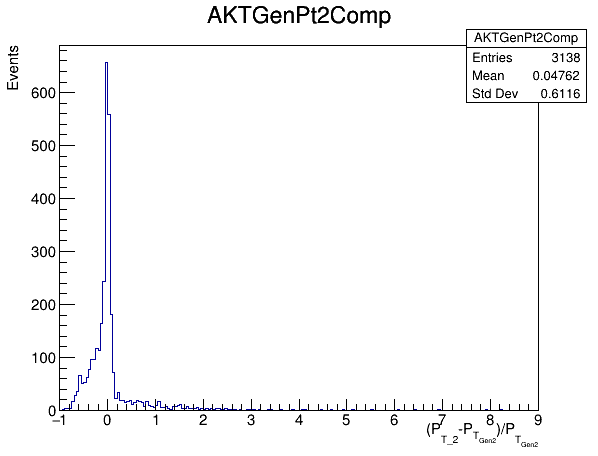
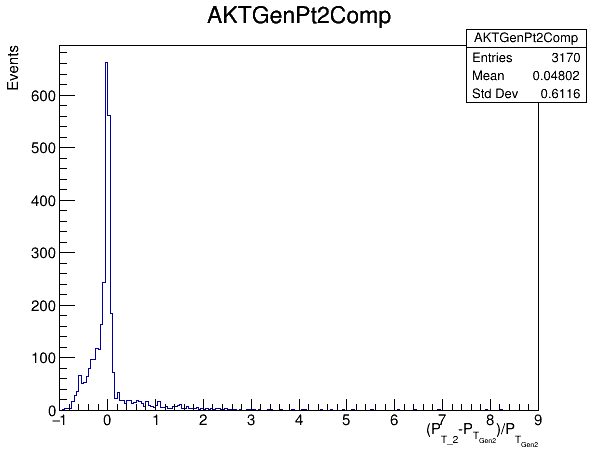
Update deltaR algo and resolution scatter plot

diff --git a/Delphes/src/PairingDiHiggs.C b/Delphes/src/PairingDiHiggs.C
@@ -22,6 +22,7 @@ R__LOAD_LIBRARY(libDelphes)
 #include <TCanvas.h>
 #include <TMath.h>
 #include <TLorentzVector.h>
+#include <TLatex.h>
 
 void PairingDiHiggs(const char *inputFile, const char *outputFile){
      gSystem->Load("libDelphes.so");
@@ -61,6 +62,16 @@ void PairingDiHiggs(const char *inputFile, const char *outputFile){
      TH1D *AKTGenPt3Comp = new TH1D("AKTGenPt3Comp", "AKTGenPt3Comp", 200 , -1, 9); 
      TH1D *AKTGenPt4Comp = new TH1D("AKTGenPt4Comp", "AKTGenPt4Comp", 200 , -1, 2); 
 
+     TH2D *jet1Reso_Pt = new TH2D("jet1Reso_Pt", "jet1Reso_Pt", 70, 0, 400, 70, -1, 4); 
+     TH2D *jet2Reso_Pt = new TH2D("jet2Reso_Pt", "jet2Reso_Pt", 70, 0, 400, 70, -1, 4); 
+     TH2D *jet3Reso_Pt = new TH2D("jet3Reso_Pt", "jet3Reso_Pt", 70, 0, 400, 70, -1, 4); 
+     TH2D *jet4Reso_Pt = new TH2D("jet4Reso_Pt", "jet4Reso_Pt", 70, 0, 400, 70, -1, 4); 
+
+     TH2D *jet1Reso_DeltaR = new TH2D("jet1Reso_DeltaR", "jet1Reso_DeltaR", 30, 0, 0.1, 30, -1, 4); 
+     TH2D *jet2Reso_DeltaR = new TH2D("jet2Reso_DeltaR", "jet2Reso_DeltaR", 30, 0, 0.1, 30, -1, 4); 
+     TH2D *jet3Reso_DeltaR = new TH2D("jet3Reso_DeltaR", "jet3Reso_DeltaR", 30, 0, 0.1, 30, -1, 4); 
+     TH2D *jet4Reso_DeltaR = new TH2D("jet4Reso_DeltaR", "jet4Reso_DeltaR", 30, 0, 0.1, 30, -1, 1.5); 
+
      Double_t AKTjet1eta1;
      Double_t AKTjet1phi1;
      Double_t AKTjet1pt1;
@@ -97,8 +108,6 @@ void PairingDiHiggs(const char *inputFile, const char *outputFile){
      Double_t Gen3mass;
      Double_t Gen4mass;
 
-
-
      Int_t pair1jet1entry;
      Int_t pair1jet2entry;
      Int_t pair2jet1entry;
@@ -125,6 +134,11 @@ void PairingDiHiggs(const char *inputFile, const char *outputFile){
      TLorentzVector GenJet2;
      TLorentzVector GenJet3;
      TLorentzVector GenJet4;
+     
+     Double_t jet1DeltaR;
+     Double_t jet2DeltaR;
+     Double_t jet3DeltaR;
+     Double_t jet4DeltaR;
 
      cout << "Running Pairing up Algo..." << endl;
 //run over event entries
@@ -167,8 +181,8 @@ void PairingDiHiggs(const char *inputFile, const char *outputFile){
          AKTjetpaircnt = 0;
 	 if (nAKTjet >= 4) {
              //Pairing up leading anti-KT jet pair
-	     for(Int_t akt1entry=0; akt1entry < nAKTjet; akt1entry++){
-	         for(Int_t akt2entry=akt1entry+1; akt2entry < nAKTjet; akt2entry++){
+	     for (Int_t akt1entry=0; akt1entry < nAKTjet; akt1entry++){
+	         for (Int_t akt2entry=akt1entry+1; akt2entry < nAKTjet; akt2entry++){
 
 		     AKTjet1eta1 = AKTjet_eta->GetValue(akt1entry);
          	     AKTjet1phi1 = AKTjet_phi->GetValue(akt1entry);
@@ -191,10 +205,10 @@ void PairingDiHiggs(const char *inputFile, const char *outputFile){
                      
 		     Int_t akt1entry2;
 		     Int_t akt2entry2;
-		     for(akt1entry2 = 0; akt1entry2 < nAKTjet; akt1entry2++){
-	                 if((akt1entry2 != akt1entry) and (akt1entry2 != akt2entry)){
-		             for(akt2entry2 = 0; akt2entry2 < nAKTjet; akt2entry2++){
-		                 if(((akt2entry2 != akt1entry) and (akt2entry2 != akt2entry)) and (akt2entry2 != akt1entry)){
+		     for (akt1entry2 = 0; akt1entry2 < nAKTjet; akt1entry2++){
+	                 if ((akt1entry2 != akt1entry) and (akt1entry2 != akt2entry)){
+		             for (akt2entry2 = 0; akt2entry2 < nAKTjet; akt2entry2++){
+		                 if (((akt2entry2 != akt1entry) and (akt2entry2 != akt2entry)) and (akt2entry2 != akt1entry)){
 			      
 			             AKTjet2eta1 = AKTjet_eta->GetValue(akt1entry2);
          	                     AKTjet2phi1 = AKTjet_phi->GetValue(akt1entry2);
@@ -267,19 +281,30 @@ void PairingDiHiggs(const char *inputFile, const char *outputFile){
              bool AKT2jet1flag = false;
 	     bool AKT2jet2flag = false;
 
-             Float_t jet1DeltaR = 100;
-             Float_t jet2DeltaR = 100;
+             jet1DeltaR = 100;
+             jet2DeltaR = 100;
+             jet3DeltaR = 100;
+             jet4DeltaR = 100;
+
+             Float_t jet1DeltaPhi;
+             Float_t jet2DeltaPhi;
+             Float_t jet3DeltaPhi;
+             Float_t jet4DeltaPhi;
 
 	     Int_t jet1entry;
 	     Int_t jet2entry;
 	     Int_t jet3entry;
 	     Int_t jet4entry;
 //Truth matching for anti-KT jets
-             for(Int_t gen1entry=0; gen1entry < nGenJet; gen1entry++){
+             for (Int_t gen1entry=0; gen1entry < nGenJet; gen1entry++){
   	         Gen1eta = GenJet_eta->GetValue(gen1entry);
 	         Gen1phi = GenJet_phi->GetValue(gen1entry);
-	         Float_t jet1DeltaRtmp = TMath::Sqrt(pow((AKTjet1eta1-Gen1eta),2)+pow((AKTjet1phi1-Gen1phi),2));
-	         if(jet1DeltaRtmp < jet1DeltaR){
+		 jet1DeltaPhi = std::abs(AKTjet1phi1-Gen1phi);                
+		 if (jet1DeltaPhi > TMath::Pi()) {
+		     jet1DeltaPhi -= 2 * TMath::Pi();
+		 } 
+	         Float_t jet1DeltaRtmp = TMath::Sqrt(pow((AKTjet1eta1-Gen1eta),2)+pow(jet1DeltaPhi,2));
+	         if (jet1DeltaRtmp < jet1DeltaR){
 	             jet1DeltaR = jet1DeltaRtmp;
 		     if (jet1DeltaR < 0.5){
 		         //if (abs(Gen1eta) < 2.25){
@@ -289,12 +314,16 @@ void PairingDiHiggs(const char *inputFile, const char *outputFile){
 		     }
 	         }  
              }
-             for(Int_t gen2entry=0; gen2entry < nGenJet; gen2entry++){
+             for (Int_t gen2entry=0; gen2entry < nGenJet; gen2entry++){
   	         Gen2eta = GenJet_eta->GetValue(gen2entry);
 	         Gen2phi = GenJet_phi->GetValue(gen2entry);
-	         Float_t jet2DeltaRtmp = TMath::Sqrt(pow((AKTjet1eta2-Gen2eta),2)+pow((AKTjet1phi2-Gen2phi),2));
+                 jet2DeltaPhi = std::abs(AKTjet1phi2-Gen2phi);                
+		 if (jet2DeltaPhi > TMath::Pi()) {
+		     jet2DeltaPhi -= 2 * TMath::Pi();
+		 } 
+	         Float_t jet2DeltaRtmp = TMath::Sqrt(pow((AKTjet1eta2-Gen2eta),2)+pow(jet2DeltaPhi,2));
 	         if (gen2entry != jet1entry){
-                     if(jet2DeltaRtmp < jet2DeltaR){
+                     if (jet2DeltaRtmp < jet2DeltaR){
 	                 jet2DeltaR = jet2DeltaRtmp;
                          if (jet2DeltaR < 0.5){
 		             //if (abs(Gen2eta) < 2.25){
@@ -305,16 +334,18 @@ void PairingDiHiggs(const char *inputFile, const char *outputFile){
 	             }
 	         }
              }
-             jet1DeltaR = 100;
-             jet2DeltaR = 100;
 
-	     for(Int_t gen3entry=0; gen3entry < nGenJet; gen3entry++){
+	     for (Int_t gen3entry=0; gen3entry < nGenJet; gen3entry++){
   	         Gen3eta = GenJet_eta->GetValue(gen3entry);
 	         Gen3phi = GenJet_phi->GetValue(gen3entry);
-	         Float_t jet1DeltaRtmp = TMath::Sqrt(pow((AKTjet2eta1-Gen3eta),2)+pow((AKTjet2phi1-Gen3phi),2));
-	         if(jet1DeltaRtmp < jet1DeltaR){
-	             jet1DeltaR = jet1DeltaRtmp;
-		     if (jet1DeltaR < 0.5){
+                 jet3DeltaPhi = std::abs(AKTjet2phi1-Gen3phi);                
+		 if (jet3DeltaPhi > TMath::Pi()) {
+		     jet3DeltaPhi -= 2 * TMath::Pi();
+		 } 
+	         Float_t jet1DeltaRtmp = TMath::Sqrt(pow((AKTjet2eta1-Gen3eta),2)+pow(jet3DeltaPhi,2));
+	         if (jet1DeltaRtmp < jet3DeltaR){
+	             jet3DeltaR = jet1DeltaRtmp;
+		     if (jet3DeltaR < 0.5){
 		         //if (abs(Gen1eta) < 2.25){
 		             AKT2jet1flag = true;
 		             jet3entry = gen3entry;
@@ -322,14 +353,18 @@ void PairingDiHiggs(const char *inputFile, const char *outputFile){
 		     }
 	         }  
              }
-             for(Int_t gen4entry=0; gen4entry < nGenJet; gen4entry++){
+             for (Int_t gen4entry=0; gen4entry < nGenJet; gen4entry++){
   	         Gen4eta = GenJet_eta->GetValue(gen4entry);
 	         Gen4phi = GenJet_phi->GetValue(gen4entry);
-	         Float_t jet2DeltaRtmp = TMath::Sqrt(pow((AKTjet2eta2-Gen4eta),2)+pow((AKTjet2phi2-Gen4phi),2));
+                 jet4DeltaPhi = std::abs(AKTjet2phi2-Gen4phi);                
+		 if (jet4DeltaPhi > TMath::Pi()) {
+		     jet4DeltaPhi -= 2 * TMath::Pi();
+		 } 
+	         Float_t jet2DeltaRtmp = TMath::Sqrt(pow((AKTjet2eta2-Gen4eta),2)+pow(jet4DeltaPhi,2));
 	         if (gen4entry != jet1entry){
-                     if(jet2DeltaRtmp < jet2DeltaR){
-	                 jet2DeltaR = jet2DeltaRtmp;
-                         if (jet2DeltaR < 0.5){
+                     if (jet2DeltaRtmp < jet4DeltaR){
+	                 jet4DeltaR = jet2DeltaRtmp;
+                         if (jet4DeltaR < 0.5){
 		             //if (abs(Gen2eta) < 2.25){
 		                 AKT2jet2flag = true;
 		                 jet4entry = gen4entry;
@@ -400,6 +435,23 @@ void PairingDiHiggs(const char *inputFile, const char *outputFile){
 		 AKTGenPt2Comp->Fill(AKTGenPt2diff);
 		 AKTGenPt3Comp->Fill(AKTGenPt3diff);
 		 AKTGenPt4Comp->Fill(AKTGenPt4diff);
+		 if (abs(AKTGenPt1diff)>=0.3) {
+		     jet1Reso_Pt->Fill(Genpt[0],AKTGenPt1diff);
+                     jet1Reso_DeltaR->Fill(jet1DeltaR, AKTGenPt1diff);
+		 }
+                 if (abs(AKTGenPt2diff)>=0.3) {
+		     jet2Reso_Pt->Fill(Genpt[1],AKTGenPt2diff);
+		     jet2Reso_DeltaR->Fill(jet2DeltaR, AKTGenPt2diff);
+		 }
+                 if (abs(AKTGenPt3diff)>=0.3) {
+		     jet3Reso_Pt->Fill(Genpt[2],AKTGenPt3diff);
+		     jet3Reso_DeltaR->Fill(jet3DeltaR, AKTGenPt3diff);
+		 }
+                 if (abs(AKTGenPt4diff)>=0.3) {
+		     jet4Reso_Pt->Fill(Genpt[3],AKTGenPt4diff);
+		     jet4Reso_DeltaR->Fill(jet4DeltaR, AKTGenPt4diff);
+		 }
+
 	         if (abs(AKTGenPt1diff)<0.15 and abs(AKTGenPt2diff)<0.15 and abs(AKTGenPt3diff)<0.15 and abs(AKTGenPt4diff)<0.15) { 
 		     AKTjetMass1->Fill(AKTjetpair1Mass);
                      AKTjetMass2->Fill(AKTjetpair2Mass);
@@ -441,8 +493,6 @@ void PairingDiHiggs(const char *inputFile, const char *outputFile){
      jetpair1fit->SetParLimits(7,-1.5,-0.0001);*/
      jetpair1fit->SetParLimits(3,0,60);
      jetpair1fit->SetParLimits(4,5,40);
-
-
 	     
      TCanvas *mycanvas = new TCanvas("mycanvas","My Canvas",200,10,600,480);
      cout <<endl<< "Run gaussian fit for the leading anti-KT jet pair..."<<endl;
@@ -487,41 +537,74 @@ void PairingDiHiggs(const char *inputFile, const char *outputFile){
      
      AKTGenMass1Comp->GetXaxis()->SetTitle("(M_{H1}-M_{Gen})/M_{Gen}");
      AKTGenMass1Comp->GetYaxis()->SetTitle("Events");
-
      AKTGenMass1Comp->Draw();
      mycanvas->SaveAs("AKTGenMass1Comp.png");
      
      AKTGenMass2Comp->GetXaxis()->SetTitle("(M_{H2}-M_{Gen})/M_{Gen}");
      AKTGenMass2Comp->GetYaxis()->SetTitle("Events");
-
      AKTGenMass2Comp->Draw();
      mycanvas->SaveAs("AKTGenMass2Comp.png");
 
      AKTGenPt1Comp->GetXaxis()->SetTitle("(P_{T_1}-P_{T_{Gen1}})/P_{T_{Gen1}}");
      AKTGenPt1Comp->GetYaxis()->SetTitle("Events");
-
      AKTGenPt1Comp->Draw();
      mycanvas->SaveAs("AKTGenPt1Comp.png");
  
      AKTGenPt2Comp->GetXaxis()->SetTitle("(P_{T_2}-P_{T_{Gen2}})/P_{T_{Gen2}}");
      AKTGenPt2Comp->GetYaxis()->SetTitle("Events");
-
      AKTGenPt2Comp->Draw();
      mycanvas->SaveAs("AKTGenPt2Comp.png");
  
      AKTGenPt3Comp->GetXaxis()->SetTitle("(P_{T_3}-P_{T_{Gen3}})/P_{T_{Gen3}}");
      AKTGenPt3Comp->GetYaxis()->SetTitle("Events");
-
      AKTGenPt3Comp->Draw();
      mycanvas->SaveAs("AKTGenPt3Comp.png");
  
      AKTGenPt4Comp->GetXaxis()->SetTitle("(P_{T_4}-P_{T_{Gen4}})/P_{T_{Gen4}}");
      AKTGenPt4Comp->GetYaxis()->SetTitle("Events");
-
      AKTGenPt4Comp->Draw();
      mycanvas->SaveAs("AKTGenPt4Comp.png");
-         
-    
+      
+     jet1Reso_Pt->GetXaxis()->SetTitle("P_T [GeV]");
+     jet1Reso_Pt->GetYaxis()->SetTitle("Resolution (P_T)");
+     jet1Reso_Pt->Draw("COL");
+     mycanvas->SaveAs("jet1Reso_Pt.png");
+     
+     jet2Reso_Pt->GetXaxis()->SetTitle("P_T [GeV]");
+     jet2Reso_Pt->GetYaxis()->SetTitle("Resolution (P_T)");
+     jet2Reso_Pt->Draw("COL");
+     mycanvas->SaveAs("jet2Reso_Pt.png");
+
+     jet3Reso_Pt->GetXaxis()->SetTitle("P_T [GeV]");
+     jet3Reso_Pt->GetYaxis()->SetTitle("Resolution (P_T)");
+     jet3Reso_Pt->Draw("COL");
+     mycanvas->SaveAs("jet3Reso_Pt.png");
+ 
+     jet4Reso_Pt->GetXaxis()->SetTitle("P_T [GeV]");
+     jet4Reso_Pt->GetYaxis()->SetTitle("Resolution (P_T)");
+     jet4Reso_Pt->Draw("COL");
+     mycanvas->SaveAs("jet4Reso_Pt.png");
+     
+     jet1Reso_DeltaR->GetXaxis()->SetTitle("#Delta_{R}");
+     jet1Reso_DeltaR->GetYaxis()->SetTitle("Resolution (P_T)");   
+     jet1Reso_DeltaR->Draw("COL");
+     mycanvas->SaveAs("jet1Reso_DeltaR.png");
+ 
+     jet2Reso_DeltaR->GetXaxis()->SetTitle("#Delta_{R}");
+     jet2Reso_DeltaR->GetYaxis()->SetTitle("Resolution (P_T)"); 
+     jet2Reso_DeltaR->Draw("COL");
+     mycanvas->SaveAs("jet2Reso_DeltaR.png");
+
+     jet3Reso_DeltaR->GetXaxis()->SetTitle("#Delta_{R}");
+     jet3Reso_DeltaR->GetYaxis()->SetTitle("Resolution (P_T)"); 
+     jet3Reso_DeltaR->Draw("COL");
+     mycanvas->SaveAs("jet3Reso_DeltaR.png");
+
+     jet4Reso_DeltaR->GetXaxis()->SetTitle("#Delta_{R}");
+     jet4Reso_DeltaR->GetYaxis()->SetTitle("Resolution (P_T)");     
+     jet4Reso_DeltaR->Draw("COL");
+     mycanvas->SaveAs("jet4Reso_DeltaR.png");
+
      cout <<endl<< "Output in TTree..."<<endl;
 
      AKTjetMass1->Write();
@@ -534,6 +617,16 @@ void PairingDiHiggs(const char *inputFile, const char *outputFile){
      AKTGenPt2Comp->Write();
      AKTGenPt3Comp->Write();
      AKTGenPt4Comp->Write();
+    
+     jet1Reso_Pt->Write();
+     jet2Reso_Pt->Write();
+     jet3Reso_Pt->Write();
+     jet4Reso_Pt->Write();
+
+     jet1Reso_DeltaR->Write();
+     jet2Reso_DeltaR->Write();
+     jet3Reso_DeltaR->Write();
+     jet4Reso_DeltaR->Write();
 
      tree_output->Write();
 
